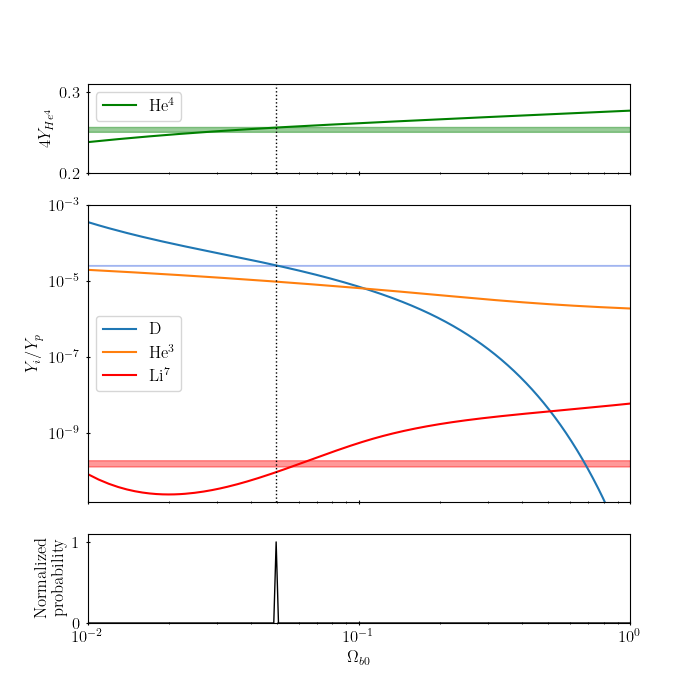
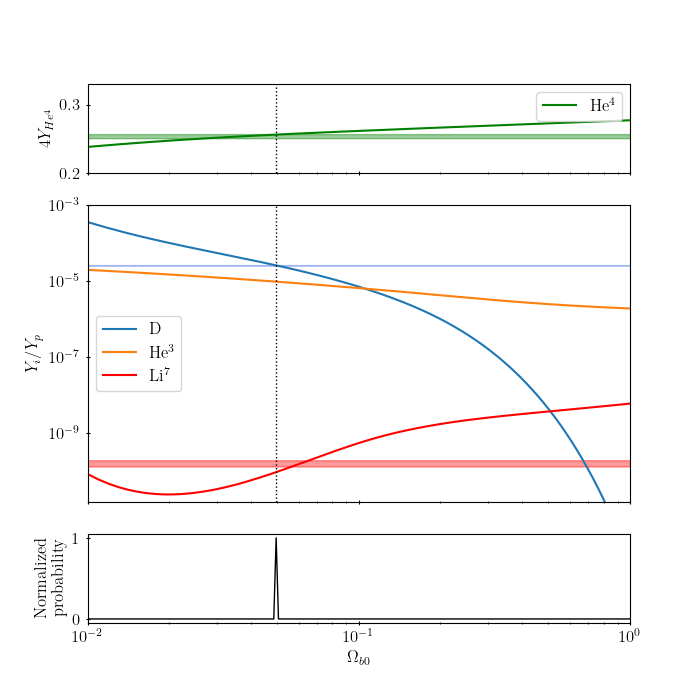
small tweaks

Changed region(s): [[0.12, 0.12, 0.9, 0.21], [0.09, 0.81, 0.9, 0.9], [0.09, 0.12, 0.12, 0.15]]

diff --git a/project-2/plot_best_params.py b/project-2/plot_best_params.py
@@ -68,8 +68,8 @@ fig, (ax1, ax2, ax3) = plt.subplots(3, 1, gridspec_kw=gridspec, sharex=True)
 
 ax1.plot(O_b0, 4 * YHe4, color='green', label=r'He$^4$')
 ax1.fill_between(O_b0, obs_4YHe4_lower, obs_4YHe4_upper, color='green', alpha=.4)
-ax1.plot([best_O_b0, best_O_b0], [.2, .31], ls='dotted', lw=1, color='black')
-ax1.set_ylim([.20, .31])
+ax1.plot([best_O_b0, best_O_b0], [.2, .33], ls='dotted', lw=1, color='black')
+ax1.set_ylim([.2, .33])
 ax1.set_ylabel(r'$4Y_{He^4}$')
 ax1.set_xscale('log')
 ax1.legend()
@@ -88,7 +88,6 @@ ax2.legend(loc='center left')
 
 ax3.plot(O_b0, prob/np.max(prob), lw=1, color='black')
 ax3.set_xlim([1e-2, 1])
-ax3.set_ylim([0, 1.1])
 ax3.set_ylabel('Normalized\nprobability')
 ax3.set_xscale('log')
 ax3.set_xlabel(r'$\Omega_{b0}$')
@@ -131,7 +130,6 @@ model = np.array([YDYp, YHe4, YLi7Yp])
 chi_sq = np.sum((model.T - obser)**2 / error**2, axis=-1)
 
 best_Neff = Neff[np.where(chi_sq == np.min(chi_sq))[0][0]]
-print(best_Neff)
 
 prob = gaussian(Neff, best_Neff, error)
 
